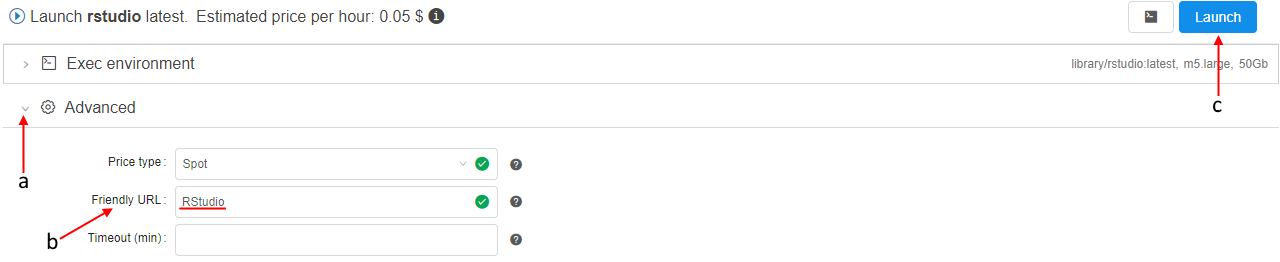
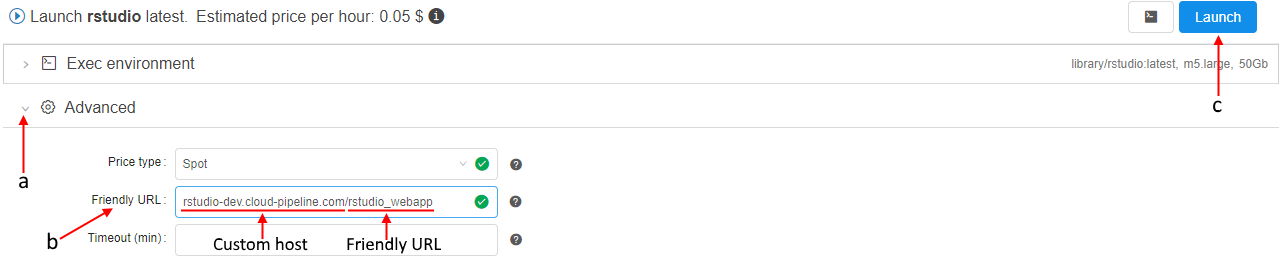
'Ability to specify custom host name as a friendly URL' was added into RN015 and docs

Changed region(s): [[0.125, 0.7023, 0.375, 0.855], [0.1562, 0.8855, 0.3438, 0.9771], [0.375, 0.7328, 0.4062, 0.7939]]

diff --git a/docs/md/manual/10_Manage_Tools/10.5._Launch_a_Tool.md b/docs/md/manual/10_Manage_Tools/10.5._Launch_a_Tool.md
@@ -77,24 +77,31 @@ After the **Tool** is launched you will be redirected to the **Runs** tab:
 
 ## Launch a Tool with "friendly" URL
 
-User can specify a "Friendly URL" for persistent services. This produces endpoint URL in a more friendly/descriptive format: {cloud-pipeline\_url}/`friendly_url` instead of {cloud-pipeline\_url}/`pipeline-XXXX-XXXX`. It can be configured at a service launch time in the "**Advanced**" section of the Launch form.
+User can specify a "friendly"-format endpoint URL for persistent services. This produces the endpoint URL for the selected interactive service in a more friendly/descriptive format instead of the default general **`<host>/pipeline-<RunID>-<port>`**.  
+"Friendly" format can be configured before the specific service launch in the "**Advanced**" section of the **Launch** page.  
+This format has the following structure - `<custom-host>/<friendly_url>`, where:
+
+- **`<custom-host>`** - valid existing domain name. If it's not specified, the default host name will be used
+- **`<friendly_url>`** - valid endpoint name. If it's not specified but the `<custom-host>` is specified - the final endpoint URL will be equal the `<custom-host>` only
+
+**_Note_**: specified endpoint URL shall be unique among all active runs.
 
 ### Example 2
 
-In this example we will configure a pretty URL for rstudio Tool.  
+In this example we will configure a pretty URL for RStudio Tool.  
 **_Note_**: for do that, user account shall be registered within CP users catalog and granted **READ** & **EXECUTE** permissions for the rstudio Tool.
 
 1. Navigate to the **Tools** tab.
-2. In the **Default registry** select the **library/rstudio** Tool:  
+2. Select/find **_RStudio_** Tool in the list:  
     ![CP_LaunchTool](attachments/LaunchTool_10.png)
-3. On opened page hover the "**Run**" button and click on appeared "**Custom settings**" point:  
+3. At the opened page hover the "**Run**" button and click the appeared "**Custom settings**" point:  
     ![CP_LaunchTool](attachments/LaunchTool_11.png)
-4. Click on "**Advanced**" control (**a**), input desired "**Friendly URL**" (**b**) (name shall be unique) and then click "**Launch**" button (**c**):  
+4. Click the "**Advanced**" control (**a**), input desired "**Friendly URL**" (**b**) (name shall be unique) and then click the "**Launch**" button (**c**), e.g.:  
     ![CP_LaunchTool](attachments/LaunchTool_12.png)
-5. Open logs page of rstudio Tool, wait until tool successfully started.
-6. Click on hyperlink opposite "**Endpoint**" label:  
+5. Open the **Run logs** page of RStudio Tool, wait until the tool successfully starts.
+6. Click the hyperlink opposite "**Endpoint**" label:  
     ![CP_LaunchTool](attachments/LaunchTool_13.png)
-7. In a new tab RStudio will be opened. Check, the URL will be in "pretty" format, that you inputted on step 4:  
+7. In a new tab RStudio will be opened. Check that the URL is in the "pretty" format you specified at step 4:  
     ![CP_LaunchTool](attachments/LaunchTool_14.png)
 
 ## Instance management

diff --git a/docs/md/release_notes/v.0.15/v.0.15_-_Release_notes.md b/docs/md/release_notes/v.0.15/v.0.15_-_Release_notes.md
@@ -40,6 +40,7 @@
 - [Mounting data storages to Linux and Mac workstations](#mounting-data-storages-to-linux-and-mac-workstations)
 - [Ability to restrict the visibility of the jobs](#ability-to-restrict-the-visibility-of-the-jobs)
 - [Ability to perform scheduled runs from detached configurations](#ability-to-perform-scheduled-runs-from-detached-configurations)
+- [Using custom domain names as a "friendly URL" for the interactive services](#the-ability-to-use-custom-domain-names-as-a-friendly-url-for-the-interactive-services)
 - [Displaying of the additional support icon/info](#displaying-of-the-additional-support-iconinfo)
 
 ***
@@ -771,6 +772,24 @@ In **`v0.15`** the ability to configure a schedule for detached configuration wa
 If any schedule rule is configured for the detached configuration - a corresponding job (plain container or a pipeline) will be started accordingly in the scheduled day and time.
 
 See more details [here](../../manual/07_Manage_Detached_configuration/7.2._Launch_Detached_Configuration.md#schedule-a-launch-from-the-detached-configuration).
+
+## The ability to use custom domain names as a "friendly URL" for the interactive services
+
+In **[`v0.13`](../v.0.13/v.0.13_-_Release_notes.md#running-instances-sharing-with-other-users-or-groups-of-users)** the ability to set a "friendly URL" for the interactive services endpoint was implemented. It allows to configure the view of the interactive service endpoint:
+
+- Default view: `https://<host>/pipeline-<run-id>-<port>`  
+- "Friendly" view: `https://<host>/<friendly-url>`
+
+In the current version this feature is expanded: users allow to specify a custom host.  
+So the endpoint url now can look like: `https://<custom-host>` or `https://<custom-host>/<friendly-url>`.  
+**_Note_**: custom host should exist, be valid and configured.
+
+The custom host is being specified into the same field as a "friendly URL" previously, e.g.:  
+    ![CP_v.0.15_ReleaseNotes](attachments/RN015_CustomDomainNames_1.png)  
+Final URL for the service endpoint will be generated using the specified host and friendly URL:  
+    ![CP_v.0.15_ReleaseNotes](attachments/RN015_CustomDomainNames_2.png)
+
+For more details see [here](../../manual/10_Manage_Tools/10.5._Launch_a_Tool.md#launch-a-tool-with-friendly-url).
 
 ## Displaying of the additional support icon/info
 

diff --git a/docs/md/release_notes/v.0.13/v.0.13_-_Release_notes.md b/docs/md/release_notes/v.0.13/v.0.13_-_Release_notes.md
@@ -69,7 +69,7 @@ Current version introduces a feature that allows to:
     ![CP_v.0.13_ReleaseNotes](attachments/RN013_SharingInstances_1.png)
     - URL will be generated using the specified name  
     ![CP_v.0.13_ReleaseNotes](attachments/RN013_SharingInstances_2.png)  
-    For more information about "Friendly URL" for persistent services see [here](../../manual/10_Manage_Tools/10.5._Launch_a_Tool.md#launch-a-tool-with-%22friendly%22-url).
+    For more information about "Friendly URL" for persistent services see [here](../../manual/10_Manage_Tools/10.5._Launch_a_Tool.md#launch-a-tool-with-friendly-url).
 2. User can now share a run with others:
     - "Share with: ..." parameter, within a run log form, can be used for this  
     ![CP_v.0.13_ReleaseNotes](attachments/RN013_SharingInstances_3.png)
